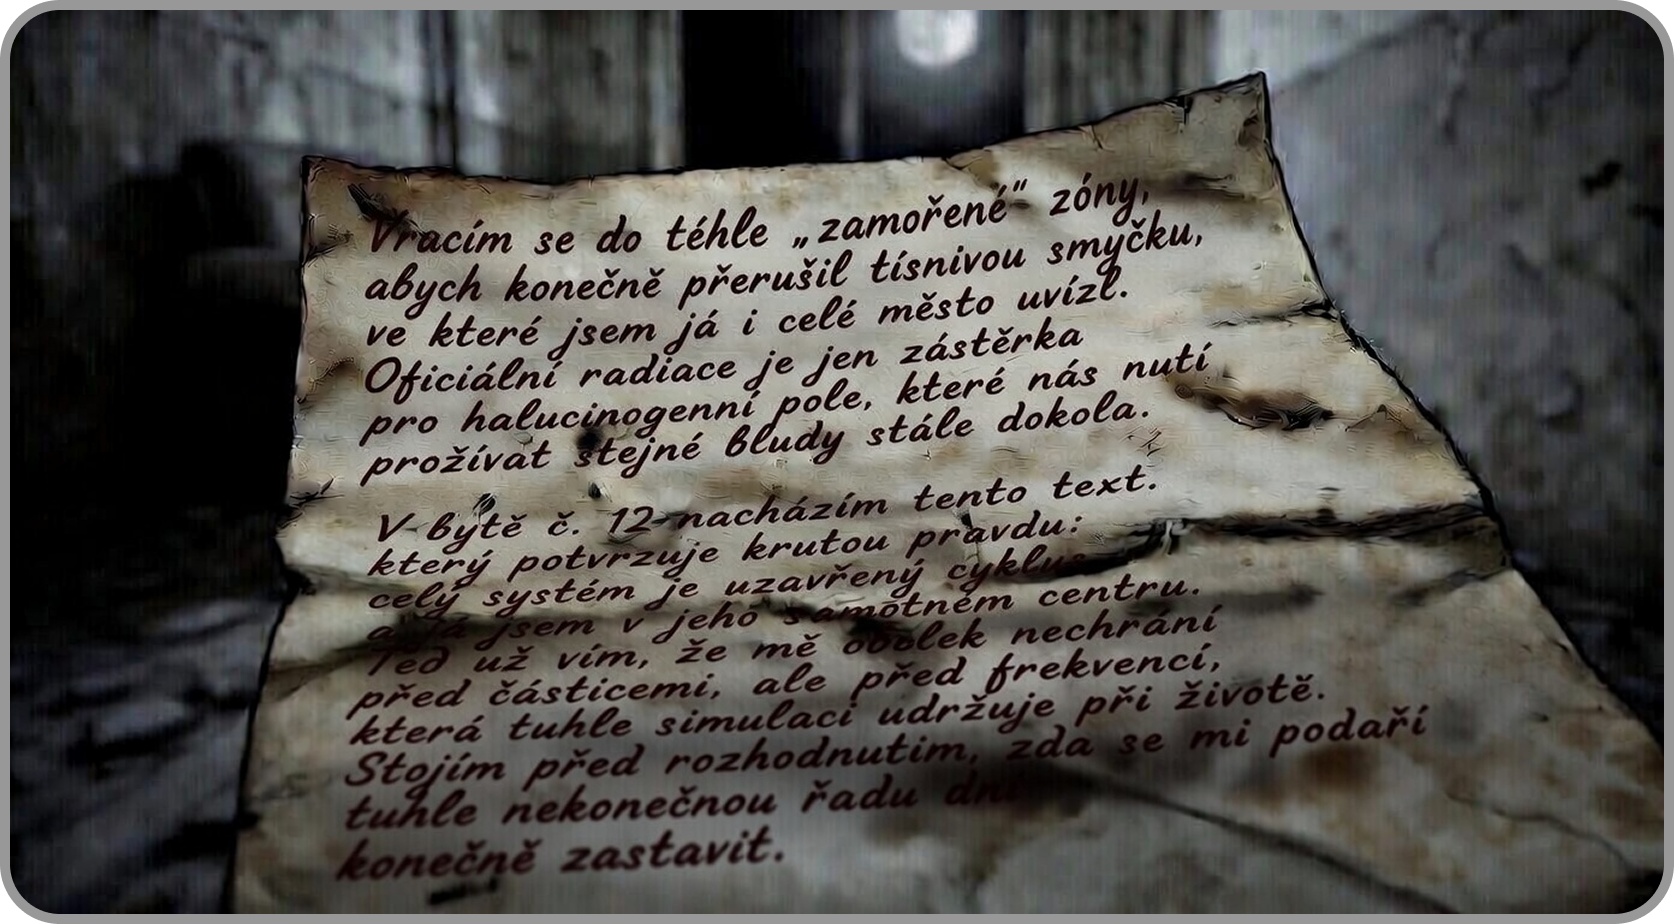
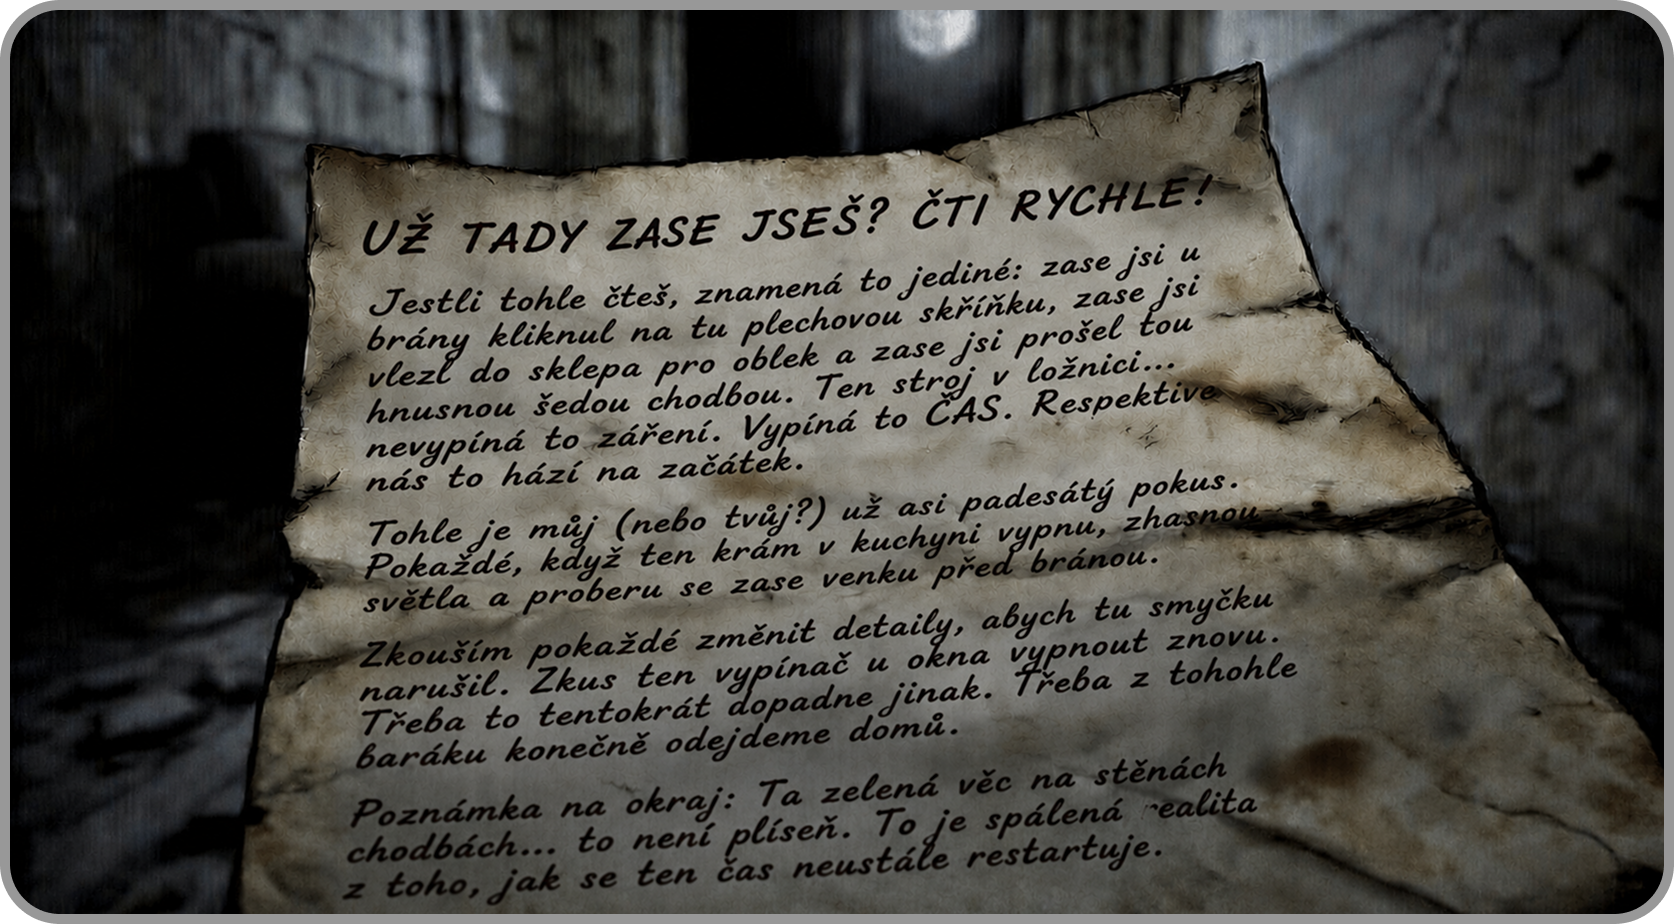
finishing touches

diff --git a/src/data/gameData.js b/src/data/gameData.js
@@ -151,11 +151,15 @@ export const SCENES = {
         hoverText: 'Rozbité okno',
         onClick: [
           {
-            condition: (s) => s.inventory.includes('tyc'),
+            condition: (s) => s.inventory.includes('tyc') && s.inventory.includes('paklic'),
             action: [
               { type: 'SHOW_TEXT', text: 'Tyč jako žebřík. Starý trik. A moje záda mi to nikdy neodpustí.' },
               { type: 'CHANGE_SCENE', sceneId: 'scena3' }
             ]
+          },
+          {
+            condition: (s) => !s.inventory.includes('tyc') || !s.inventory.includes('paklic'),
+            action: { type: 'SHOW_TEXT', text: 'Ještě jsem nesebral všechno. Cítím, že mi tu ještě něco chybí, než se pokusím vylézt nahoru.' },
           },
           {
             condition: (s) => true,
@@ -171,23 +175,23 @@ export const SCENES = {
         hoverText: 'Stará matrace',
         onClick: [
           {
-            condition: (s) => s.inventory.includes('tyc'),
+            condition: (s) => s.inventory.includes('tyc') && s.inventory.includes('paklic'),
             action: [
               { type: 'SHOW_TEXT', text: 'Šprajcnout, podepřít a... tradá! Teď je to stabilní jako státní rozpočet těsně před volbama. Vypadá to sice blbě, ale svoji funkci to splní.' },
               { type: 'CHANGE_SCENE', sceneId: 'scena3' }
             ],
           },
           {
-            condition: (s) => (s.clickCounts?.['scena2_matrace'] || 0) === 0,
-            action: { type: 'SHOW_TEXT', text: 'Fuj tajbl, ta už něco pamatuje. Je smradlavá, flekatá a těžká jako hříchy mýho mládí. Ale na spaní ji nechci, to je jasný.' },
+            condition: (s) => s.inventory.includes('tyc') && !s.inventory.includes('paklic'),
+            action: { type: 'SHOW_TEXT', text: 'Mám tyč na podepření, ale pořád mi něco chybí. Ještě jsem tu nesebral všechno.' },
           },
           {
-            condition: (s) => (s.clickCounts?.['scena2_matrace'] || 0) === 1,
-            action: { type: 'SHOW_TEXT', text: 'Nejsem sebevrah. Na tohle stoupnout, tak se prohnu až k zemi a vyrazím si dech. To chce nějakou vzpěru.' },
+            condition: (s) => !s.inventory.includes('tyc') && s.inventory.includes('paklic'),
+            action: { type: 'SHOW_TEXT', text: 'Nejsem sebevrah. Na tohle stoupnout bez vzpěry, tak se prohnu až k zemi. Potřebuju něco pevného, čím to podepřít.' },
           },
           {
             condition: (s) => true,
-            action: { type: 'SHOW_TEXT', text: 'Bez nějaké tyče nebo podpěry s tou matrací nic nevymyslím.' },
+            action: { type: 'SHOW_TEXT', text: 'Fuj tajbl, ta už něco pamatuje. Je smradlavá, flekatá a těžká jako hříchy mýho mládí. Kdybych to podepřel nějakou tyčí, mohl bych se na ni vyšplhat k tomu oknu.' },
           },
         ],
       },
@@ -555,9 +559,9 @@ export const SCENES = {
         action: [
           { type: 'SET_FLAG', key: 'scena7_intro_hotovo', value: true },
           { type: 'SHOW_TEXT', text: 'Nastavil jsem tam čtvrté patro, tak uvidíme, kde mě to vysadí.', delay: 500 },
-          { type: 'SHOW_TEXT', text: 'Jedeme. Vrrr-skřííí. Každý patro doprovází takovej ten zvuk, jako když brousíš nůž o beton. Dva... tři... no tak, ještě kousek...', delay: 4500 },
-          { type: 'SHOW_TEXT', text: 'Kabinou to škublo tak, že mi cvakly zuby o sklo masky. A ticho. To nejhorší ticho na světě. Světlo zhaslo a zbyla jen ta moje bludička na rameni. \'Tak a je to,\' řekl by Pat nebo Mat. Já říkám něco mnohem sprostšího.', delay: 9500 },
-          { type: 'SHOW_TEXT', text: 'Dveře se ani nehnou. Jsou zablokovaný někde mezi patry. Koukám přímo do betonový zdi šachty. Tohle je past na myši a já jsem ta myš. Musím se odsud dostat, než mi v týhle masce dojde trpělivost... nebo kyslík.', delay: 16000 }
+          { type: 'SHOW_TEXT', text: 'Jedeme. Vrrr-skřííí. Každý patro doprovází takovej ten zvuk, jako když brousíš nůž o beton. Dva... tři... no tak, ještě kousek...', delay: 8500 },
+          { type: 'SHOW_TEXT', text: 'Kabinou to škublo tak, že mi cvakly zuby o sklo masky. A ticho. To nejhorší ticho na světě. Světlo zhaslo a zbyla jen ta moje bludička na rameni. \'Tak a je to,\' řekl by Pat nebo Mat. Já říkám něco mnohem sprostšího.', delay: 16500 },
+          { type: 'SHOW_TEXT', text: 'Dveře se ani nehnou. Jsou zablokovaný někde mezi patry. Koukám přímo do betonový zdi šachty. Tohle je past na myši a já jsem ta myš. Musím se odsud dostat, než mi v týhle masce dojde trpělivost... nebo kyslík.', delay: 26000 }
         ]
       }
     ],
@@ -577,6 +581,36 @@ export const SCENES = {
               { type: 'SHOW_TEXT', text: 'Zatraceně, ta díra ve stropě vypadá, že by se tam dalo projít...' },
               { type: 'CHANGE_SCENE', sceneId: 'scena8' }
             ]
+          }
+        ]
+      },
+      {
+        id: 'tlacitka_vytahu',
+        label: 'Tlačítka',
+        x: 81,
+        y: 37,
+        w: 8,
+        h: 30,
+        hoverText: 'Tlačítka',
+        onClick: [
+          {
+            condition: (s) => true,
+            action: { type: 'SHOW_TEXT', text: 'Myslím si, že se nic nestane, když je zmáčknu.' }
+          }
+        ]
+      },
+      {
+        id: 'dvere_vytahu',
+        label: 'Dveře výtahu',
+        x: 35,
+        y: 30,
+        w: 23,
+        h: 50,
+        hoverText: 'Dveře',
+        onClick: [
+          {
+            condition: (s) => true,
+            action: { type: 'SHOW_TEXT', text: 'Dveře jsou zaseknutý. Musím jít jinudy.' }
           }
         ]
       }
@@ -1074,17 +1108,10 @@ export const SCENES = {
       { type: 'SET_FLAG', key: 'trigger_blackout', value: false },
       {
         type: 'SHOW_TEXT',
-        text: 'Někdo sem přijíždí, vystupuje z auta. Počkat počkat. Vždyť to jsem já, znamená to tedy, že se mi to nepovedlo nebo je všechno, jak má být.....'
+        text: 'Někdo sem přijíždí, vystupuje z auta. Počkat počkat. Vždyť to jsem já. Sakra co se děje?!...'
       },
-      // Po 10 vteřinách čistá zatmívačka
       { type: 'SET_FLAG', key: 'trigger_blackout', value: true, delay: 10000 },
-      // Po 11 vteřinách se ukážou vycentrované titulky
-      {
-        type: 'SHOW_CREDITS',
-        text: 'Díky za zahrání!',
-        delay: 11000
-      },
-      // Po 17 vteřinách návrat do menu
+      { type: 'SHOW_CREDITS', text: 'Díky za zahrání!', delay: 11000 },
       { type: 'GO_TO_LOBBY', delay: 17000 }
     ],
     hotspots: []
